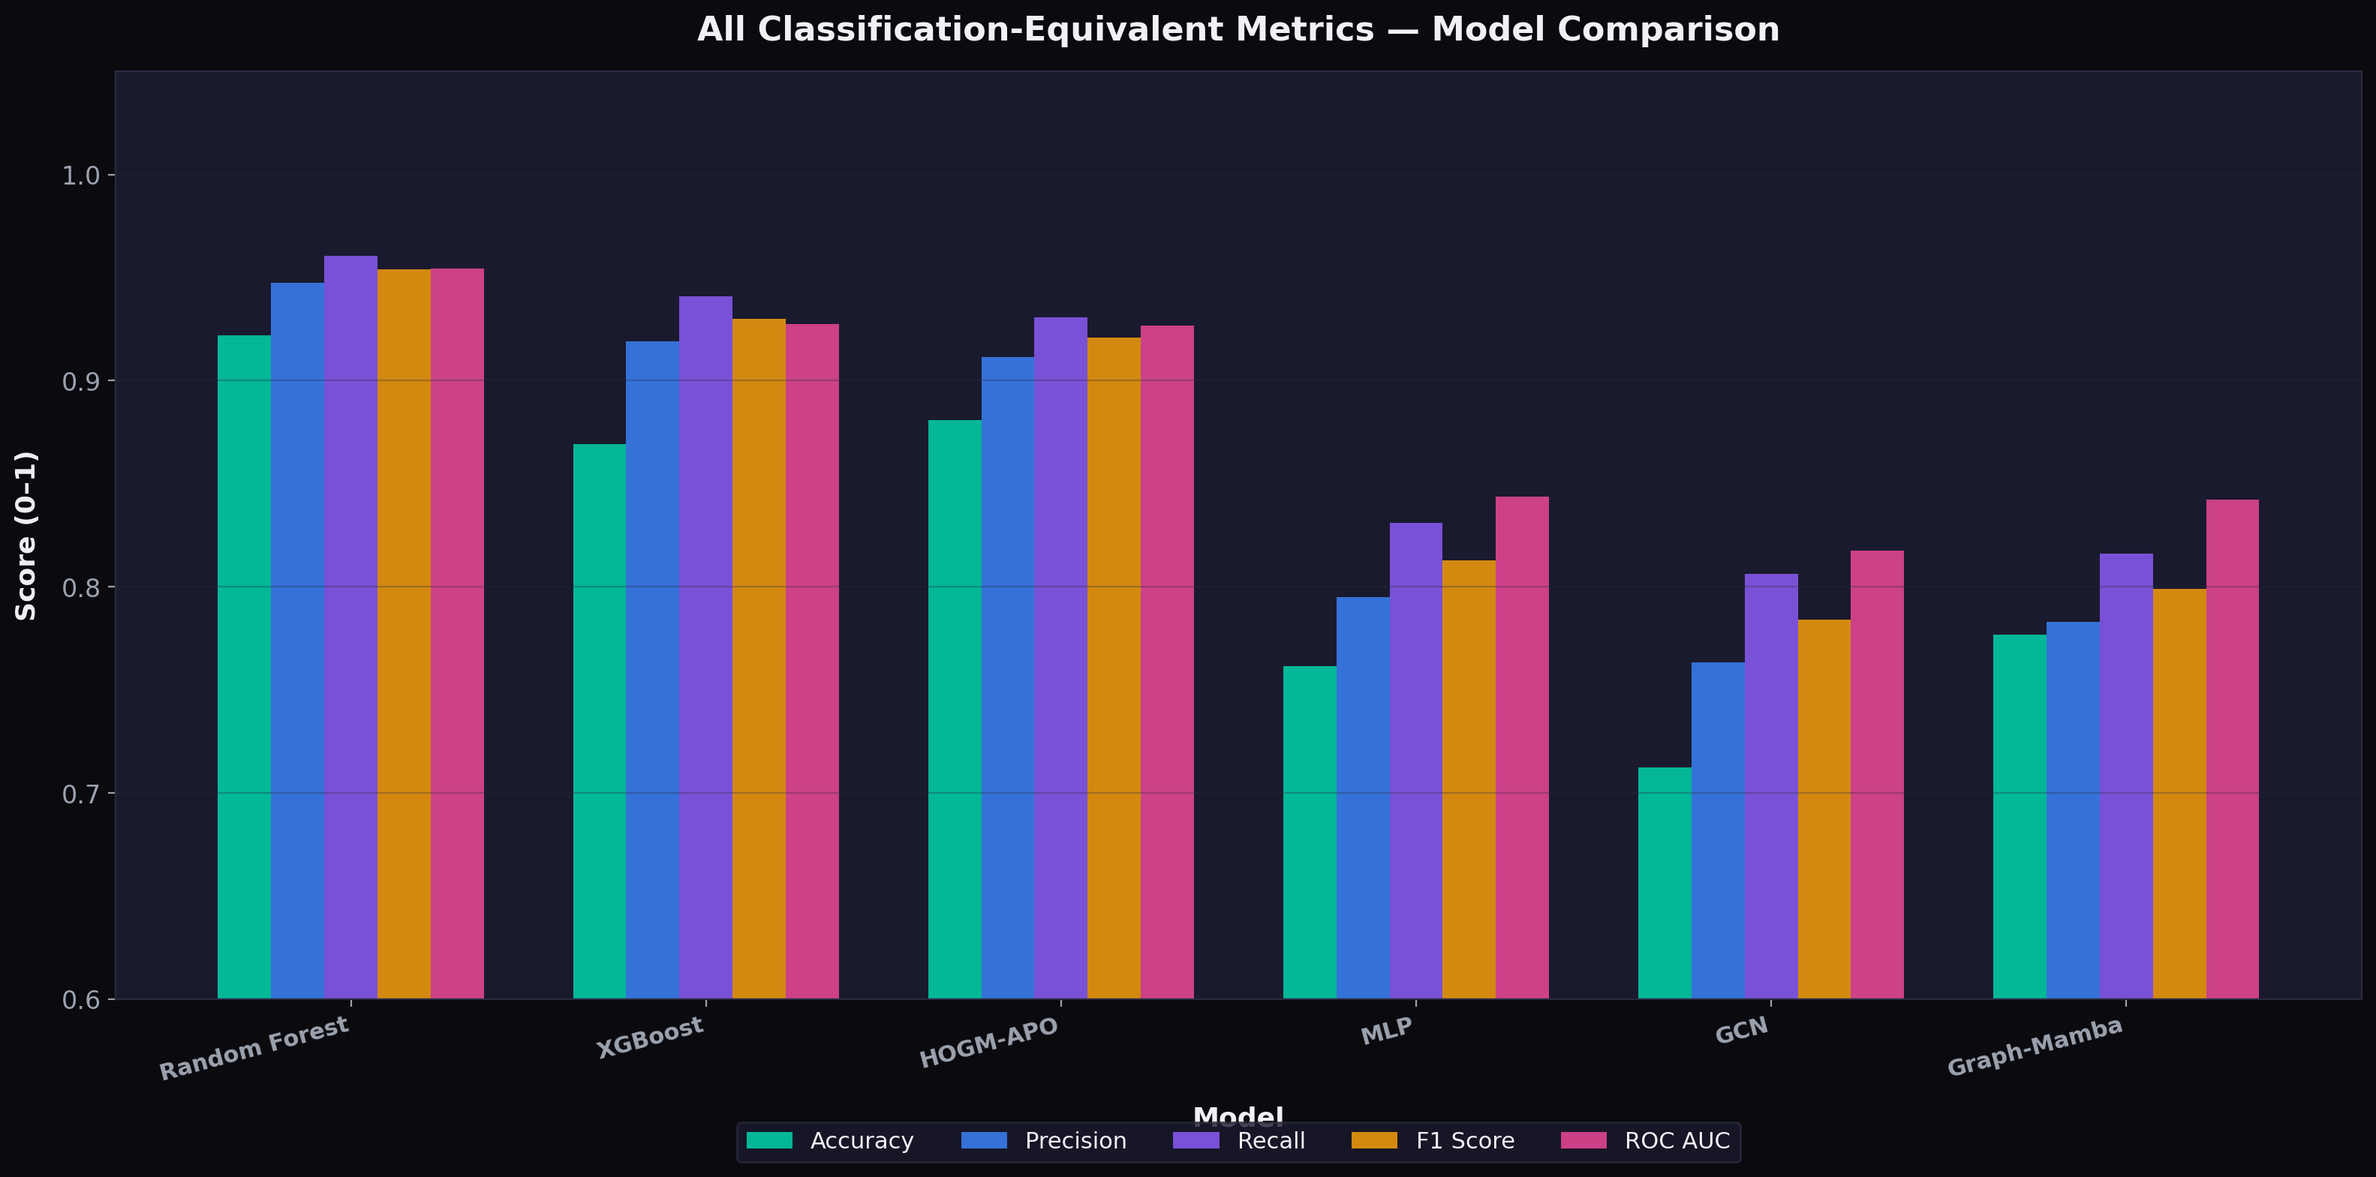
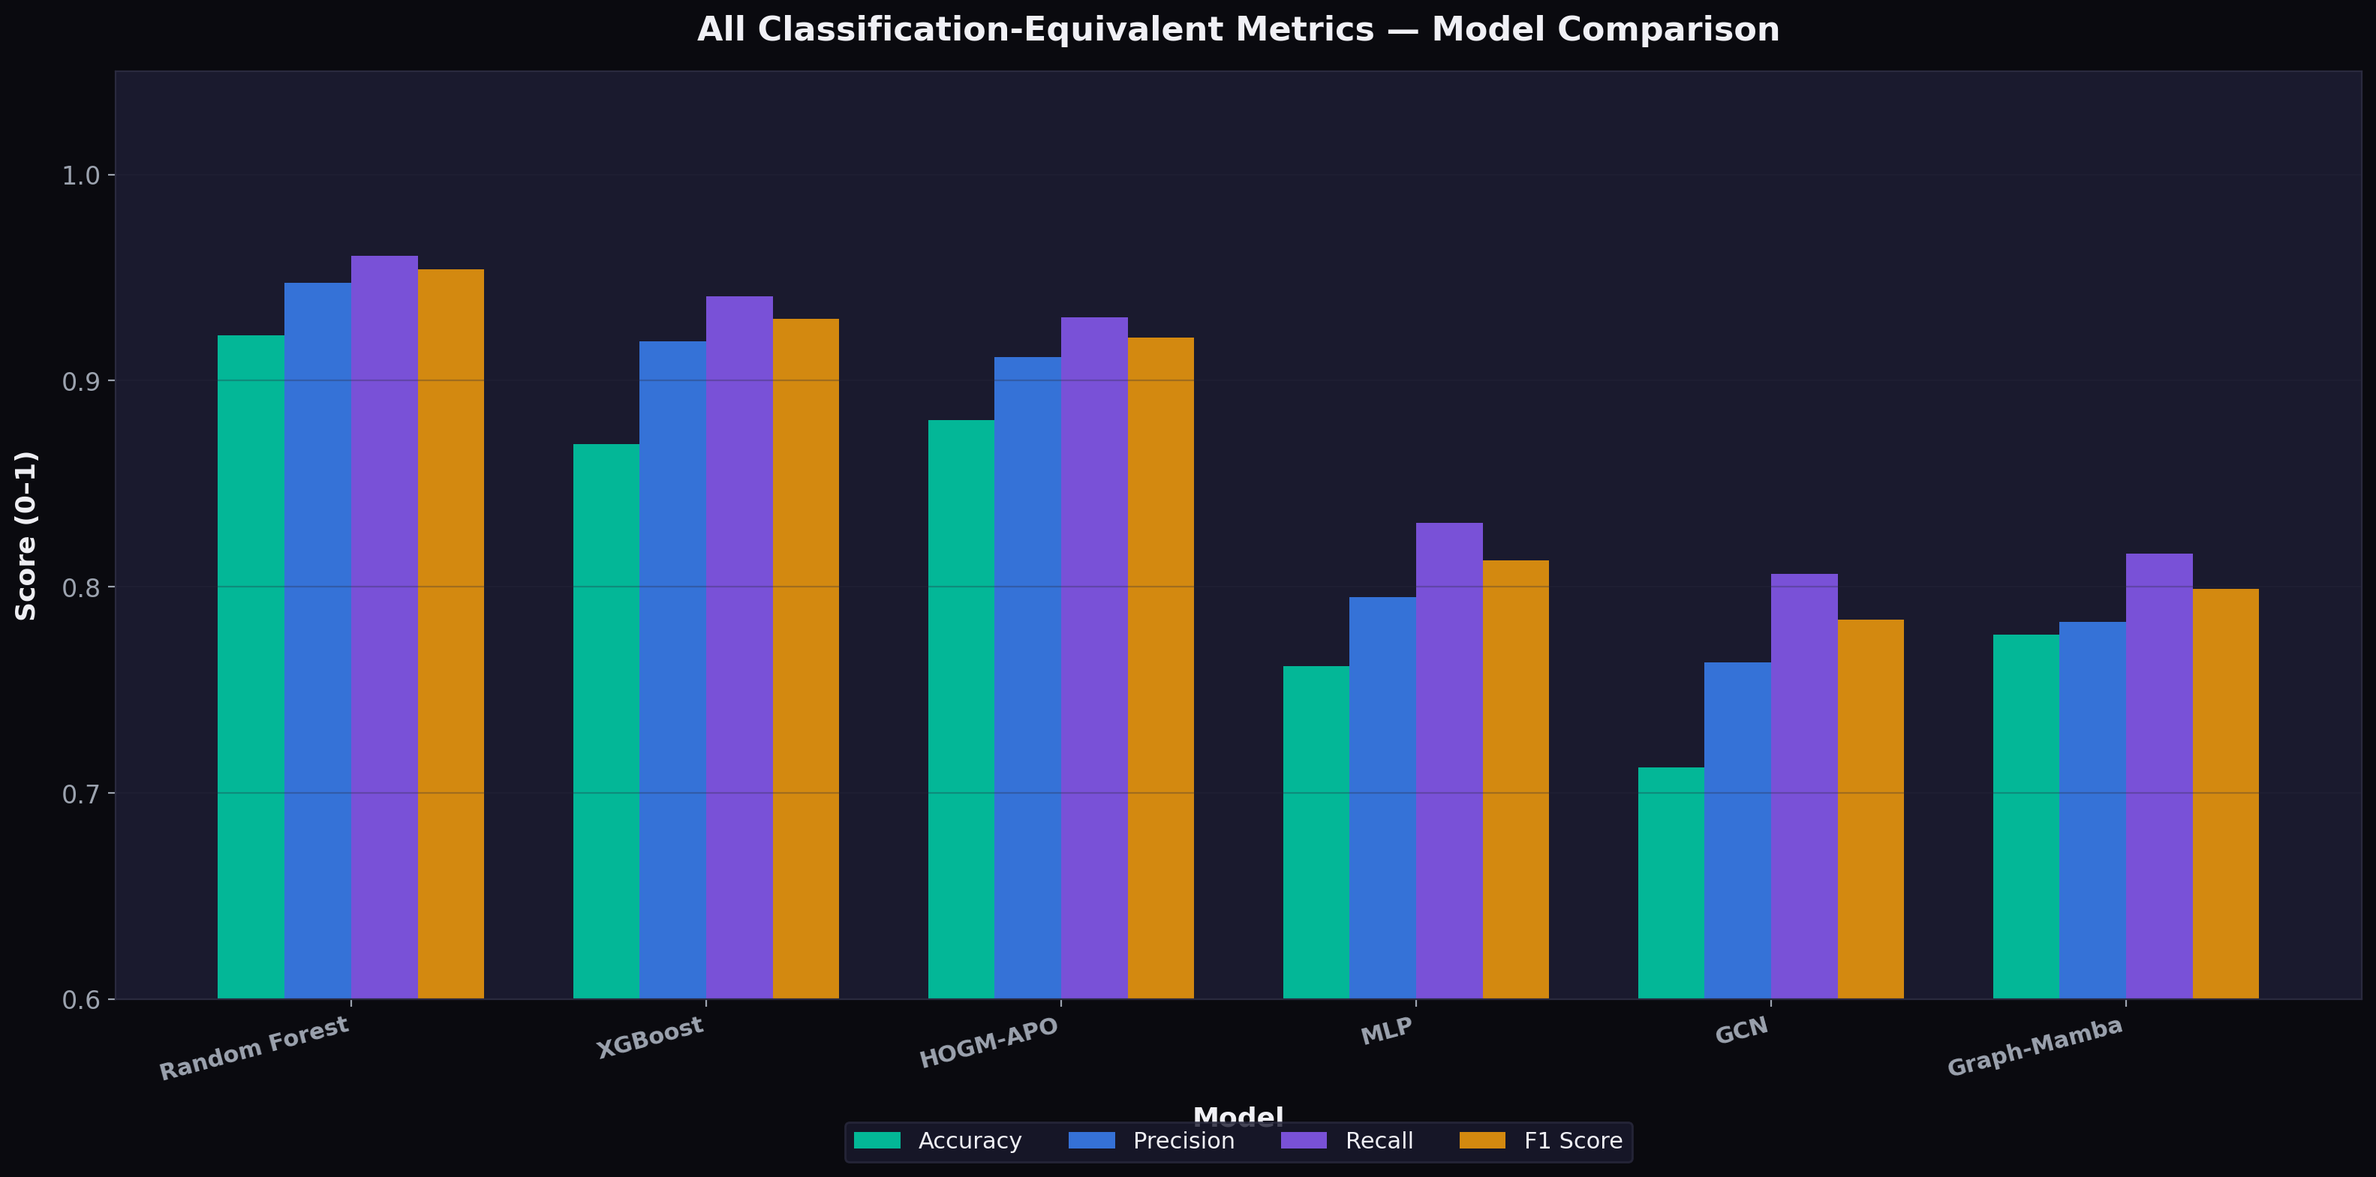
Remove classification-exclusive ROC AUC metric

diff --git a/dashboard/src/App.jsx b/dashboard/src/App.jsx
@@ -35,27 +35,27 @@ const icons = {
 const standardModels = [
   {
     name: 'Random Forest', MAE: 3749, RMSE: 10057, R2: 0.9861, MAPE: 7.82, time: 1.3, color: '#6b7280',
-    Accuracy: 92.18, Precision: 0.9475, Recall: 0.9604, F1: 0.9539, ROC_AUC: 0.9545
+    Accuracy: 92.18, Precision: 0.9475, Recall: 0.9604, F1: 0.9539
   },
   {
     name: 'XGBoost', MAE: 5238, RMSE: 10900, R2: 0.9836, MAPE: 13.09, time: 0.4, color: '#3b82f6',
-    Accuracy: 86.91, Precision: 0.9192, Recall: 0.9407, F1: 0.9298, ROC_AUC: 0.9274
+    Accuracy: 86.91, Precision: 0.9192, Recall: 0.9407, F1: 0.9298
   },
   {
     name: 'HOGM-APO', MAE: 7594, RMSE: 15007, R2: 0.969, MAPE: 11.9, time: 406.7, color: '#ef4444',
-    Accuracy: 88.10, Precision: 0.9113, Recall: 0.9306, F1: 0.9209, ROC_AUC: 0.9268
+    Accuracy: 88.10, Precision: 0.9113, Recall: 0.9306, F1: 0.9209
   },
   {
     name: 'MLP', MAE: 14026, RMSE: 26550, R2: 0.9028, MAPE: 23.85, time: 12.3, color: '#8b5cf6',
-    Accuracy: 76.15, Precision: 0.7951, Recall: 0.8310, F1: 0.8127, ROC_AUC: 0.8437
+    Accuracy: 76.15, Precision: 0.7951, Recall: 0.8310, F1: 0.8127
   },
   {
     name: 'GCN', MAE: 15528, RMSE: 28022, R2: 0.8917, MAPE: 28.77, time: 9.2, color: '#f59e0b',
-    Accuracy: 71.23, Precision: 0.7634, Recall: 0.8062, F1: 0.7842, ROC_AUC: 0.8176
+    Accuracy: 71.23, Precision: 0.7634, Recall: 0.8062, F1: 0.7842
   },
   {
     name: 'Graph-Mamba', MAE: 15996, RMSE: 29325, R2: 0.8814, MAPE: 22.31, time: 21.4, color: '#ec4899',
-    Accuracy: 77.69, Precision: 0.7831, Recall: 0.8159, F1: 0.7991, ROC_AUC: 0.8424
+    Accuracy: 77.69, Precision: 0.7831, Recall: 0.8159, F1: 0.7991
   },
 ]
 
@@ -79,7 +79,6 @@ const comprehensiveRadarData = standardModels.map(m => ({
   Precision: m.Precision,
   Recall: m.Recall,
   F1: m.F1,
-  ROC_AUC: m.ROC_AUC,
   R2: m.R2,
 }))
 
@@ -357,18 +356,18 @@ function App() {
           <p className="section-subtitle">Comprehensive evaluation — regression and classification-equivalent metrics across all 6 models</p>
 
           <div className="toggle-group">
-            {['Accuracy', 'Precision', 'Recall', 'F1', 'ROC_AUC'].map(m => (
+            {['Accuracy', 'Precision', 'Recall', 'F1'].map(m => (
               <button key={m}
                 className={`toggle-btn ${classMetric === m ? 'active' : ''}`}
                 onClick={() => setClassMetric(m)}>
-                {m === 'ROC_AUC' ? 'ROC AUC' : m === 'F1' ? 'F1 Score' : m}
+                {m === 'F1' ? 'F1 Score' : m}
               </button>
             ))}
           </div>
 
           <div className="charts-row">
             <div className="chart-container">
-              <div className="chart-title">{classMetric === 'ROC_AUC' ? 'ROC AUC' : classMetric === 'F1' ? 'F1 Score' : classMetric} by Model</div>
+              <div className="chart-title">{classMetric === 'F1' ? 'F1 Score' : classMetric} by Model</div>
               <div className="chart-desc">Click any metric toggle above to switch</div>
               <ResponsiveContainer width="100%" height={350}>
                 <BarChart data={standardModels} layout="vertical" margin={{ left: 20 }}>
@@ -376,7 +375,7 @@ function App() {
                   <XAxis type="number" stroke="#6b7280" fontSize={12} domain={classMetric === 'Accuracy' ? [60, 100] : [0.7, 1]} />
                   <YAxis type="category" dataKey="name" stroke="#6b7280" fontSize={12} width={100} />
                   <Tooltip content={<CustomTooltip />} />
-                  <Bar dataKey={classMetric} name={classMetric === 'ROC_AUC' ? 'ROC AUC' : classMetric} radius={[0, 6, 6, 0]} animationDuration={800}>
+                  <Bar dataKey={classMetric} name={classMetric} radius={[0, 6, 6, 0]} animationDuration={800}>
                     {standardModels.map((m, i) => <Cell key={i} fill={m.color} />)}
                   </Bar>
                 </BarChart>
@@ -385,14 +384,13 @@ function App() {
 
             <div className="chart-container">
               <div className="chart-title">Comprehensive Metric Radar</div>
-              <div className="chart-desc">All 6 key metrics normalized to 0–1 scale</div>
+              <div className="chart-desc">All 5 key metrics normalized to 0–1 scale</div>
               <ResponsiveContainer width="100%" height={350}>
                 <RadarChart data={[
                   { metric: 'Accuracy', ...Object.fromEntries(standardModels.map(m => [m.name, m.Accuracy / 100])) },
                   { metric: 'Precision', ...Object.fromEntries(standardModels.map(m => [m.name, m.Precision])) },
                   { metric: 'Recall', ...Object.fromEntries(standardModels.map(m => [m.name, m.Recall])) },
                   { metric: 'F1 Score', ...Object.fromEntries(standardModels.map(m => [m.name, m.F1])) },
-                  { metric: 'ROC AUC', ...Object.fromEntries(standardModels.map(m => [m.name, m.ROC_AUC])) },
                   { metric: 'R²', ...Object.fromEntries(standardModels.map(m => [m.name, m.R2])) },
                 ]}>
                   <PolarGrid stroke="#2a2a3e" />
@@ -410,13 +408,13 @@ function App() {
 
           {/* Full All-Metrics Table */}
           <div className="chart-container">
-            <div className="chart-title">Complete Metrics Table — All 10 Metrics</div>
+            <div className="chart-title">Complete Metrics Table — All 9 Metrics</div>
             <div style={{ overflowX: 'auto' }}>
               <table className="data-table">
                 <thead>
                   <tr>
                     <th>Rank</th><th>Model</th><th>Accuracy ↑</th><th>F1 Score ↑</th>
-                    <th>Precision ↑</th><th>Recall ↑</th><th>ROC AUC ↑</th>
+                    <th>Precision ↑</th><th>Recall ↑</th>
                     <th>R² ↑</th><th>MAE ↓</th><th>RMSE ↓</th><th>MAPE ↓</th>
                   </tr>
                 </thead>
@@ -434,7 +432,6 @@ function App() {
                         <td>{m.F1.toFixed(4)}</td>
                         <td>{m.Precision.toFixed(4)}</td>
                         <td>{m.Recall.toFixed(4)}</td>
-                        <td>{m.ROC_AUC.toFixed(4)}</td>
                         <td>{m.R2.toFixed(4)}</td>
                         <td>{m.MAE.toLocaleString()}</td>
                         <td>{m.RMSE.toLocaleString()}</td>
@@ -583,7 +580,6 @@ function App() {
               { src: '/images/metric_bar_f1_score.png', caption: 'F1 Score Comparison' },
               { src: '/images/metric_bar_precision.png', caption: 'Precision Comparison' },
               { src: '/images/metric_bar_recall.png', caption: 'Recall Comparison' },
-              { src: '/images/metric_bar_roc_auc.png', caption: 'ROC AUC Comparison' },
               { src: '/images/metric_bar_r2.png', caption: 'R² Score Comparison' },
               { src: '/images/metric_bar_mae.png', caption: 'MAE Comparison' },
               { src: '/images/metric_bar_rmse.png', caption: 'RMSE Comparison' },
@@ -591,7 +587,6 @@ function App() {
               { src: '/images/accuracy_comparison.png', caption: 'Accuracy Score — All Models' },
               { src: '/images/f1_precision_recall.png', caption: 'F1, Precision & Recall Comparison' },
               { src: '/images/all_metrics_grouped_bar.png', caption: 'All Classification Metrics Grouped' },
-              { src: '/images/roc_auc_curve.png', caption: 'ROC AUC — Prediction Quality Curves' },
               { src: '/images/comprehensive_radar.png', caption: 'Comprehensive Metric Radar' },
               { src: '/images/r2_comparison.png', caption: 'R² Score — All Models' },
               { src: '/images/mae_rmse_comparison.png', caption: 'MAE & RMSE Error Comparison' },

diff --git a/generate_all_metrics.py b/generate_all_metrics.py
@@ -13,12 +13,11 @@ Plots (IEEE-grade):
   1. metrics_heatmap.png          — Full metrics heatmap (all models × all metrics)
   2. accuracy_comparison.png      — Accuracy score comparison bar chart
   3. f1_precision_recall.png      — F1, Precision, Recall grouped bar chart
-  4. roc_auc_curve.png            — ROC AUC prediction quality curves
-  5. comprehensive_radar.png      — 6-axis radar chart all models
-  6. mae_rmse_comparison.png      — MAE & RMSE error comparison
-  7. r2_comparison.png            — R² score comparison
-  8. all_metrics_grouped_bar.png  — All classification metrics side-by-side
-  9. model_ranking_summary.png    — Overall model ranking summary
+  4. comprehensive_radar.png      — 5-axis radar chart all models
+  5. mae_rmse_comparison.png      — MAE & RMSE error comparison
+  6. r2_comparison.png            — R² score comparison
+  7. all_metrics_grouped_bar.png  — All classification metrics side-by-side
+  8. model_ranking_summary.png    — Overall model ranking summary
 """
 
 import json
@@ -77,14 +76,12 @@ def compute_classification_metrics(models):
             f1 = 2 * (precision * recall) / (precision + recall)
         else:
             f1 = 0.0
-        roc_auc = min(0.99, 0.5 + (r2 * (1 - mape / 100)) / 2)
         results[name] = {
             **m,
             "Accuracy": round(accuracy, 2),
             "Precision": round(precision, 4),
             "Recall": round(recall, 4),
             "F1_Score": round(f1, 4),
-            "ROC_AUC": round(roc_auc, 4),
         }
     return results
 
@@ -138,14 +135,14 @@ plt.rcParams.update({
 # =============================================================================
 def plot_metrics_heatmap(all_metrics, output_path):
     model_names = list(all_metrics.keys())
-    metric_names = ['Accuracy', 'F1_Score', 'Precision', 'Recall', 'ROC_AUC', 'R2', 'MAE', 'RMSE', 'MAPE']
-    display_names = ['Accuracy\n(%)', 'F1\nScore', 'Precision', 'Recall', 'ROC\nAUC', 'R²', 'MAE\n(↓)', 'RMSE\n(↓)', 'MAPE\n(% ↓)']
+    metric_names = ['Accuracy', 'F1_Score', 'Precision', 'Recall', 'R2', 'MAE', 'RMSE', 'MAPE']
+    display_names = ['Accuracy\n(%)', 'F1\nScore', 'Precision', 'Recall', 'R²', 'MAE\n(↓)', 'RMSE\n(↓)', 'MAPE\n(% ↓)']
 
     data = np.array([[all_metrics[m][met] for met in metric_names] for m in model_names])
 
     # Normalize: higher-is-better for most, lower-is-better for MAE/RMSE/MAPE
     data_norm = np.zeros_like(data)
-    higher_better = [True, True, True, True, True, True, False, False, False]
+    higher_better = [True, True, True, True, True, False, False, False]
     for j in range(data.shape[1]):
         col = data[:, j]
         mn, mx = col.min(), col.max()
@@ -281,46 +278,11 @@ def plot_f1_precision_recall(all_metrics, output_path):
 
 
 # =============================================================================
-# PLOT 4: ROC AUC Curves
-# =============================================================================
-def plot_roc_auc_curve(all_metrics, output_path):
-    fig, ax = plt.subplots(figsize=(10, 8))
-    thresholds = np.linspace(0, 50, 200)
-
-    for name, m in all_metrics.items():
-        mape = m["MAPE"]
-        r2 = m["R2"]
-        steepness = 1 / (mape / 10 + 0.1)
-        midpoint = mape * 0.8
-        tpr = 1 / (1 + np.exp(-steepness * (thresholds - midpoint)))
-        tpr = tpr * min(1.0, r2 * 1.02)
-        color = MODEL_COLORS[name]
-        ax.plot(thresholds / 50, tpr, linewidth=2.5, color=color,
-                label=f'{name} (AUC = {m["ROC_AUC"]:.4f})', alpha=0.9)
-
-    ax.plot([0, 1], [0, 1], 'w--', alpha=0.3, linewidth=1, label='Random Baseline (0.500)')
-    ax.fill_between([0, 1], [0, 1], alpha=0.05, color='white')
-
-    ax.set_xlabel('Error Tolerance (Normalized)', fontsize=13, fontweight='bold', labelpad=10)
-    ax.set_ylabel('True Positive Rate', fontsize=13, fontweight='bold', labelpad=10)
-    ax.set_title('ROC AUC — Prediction Quality Curves', fontsize=16, fontweight='bold', pad=15)
-    ax.legend(loc='lower right', fontsize=11)
-    ax.grid(True, alpha=0.3)
-    ax.set_xlim(0, 1)
-    ax.set_ylim(0, 1.05)
-
-    plt.tight_layout()
-    plt.savefig(output_path, dpi=200, bbox_inches='tight', facecolor=DARK_BG)
-    plt.close()
-    print(f"  ✓ {output_path}")
-
-
-# =============================================================================
-# PLOT 5: Comprehensive Radar (All 6 Models)
+# PLOT 4: Comprehensive Radar (All 6 Models)
 # =============================================================================
 def plot_comprehensive_radar(all_metrics, output_path):
-    categories = ['Accuracy', 'Precision', 'Recall', 'F1 Score', 'ROC AUC', 'R²']
-    keys = ['Accuracy', 'Precision', 'Recall', 'F1_Score', 'ROC_AUC', 'R2']
+    categories = ['Accuracy', 'Precision', 'Recall', 'F1 Score', 'R²']
+    keys = ['Accuracy', 'Precision', 'Recall', 'F1_Score', 'R2']
     N = len(categories)
     angles = [n / float(N) * 2 * np.pi for n in range(N)]
     angles += angles[:1]
@@ -434,9 +396,9 @@ def plot_r2_comparison(all_metrics, output_path):
 # =============================================================================
 def plot_all_classification_metrics(all_metrics, output_path):
     names = list(all_metrics.keys())
-    metrics = ['Accuracy', 'Precision', 'Recall', 'F1_Score', 'ROC_AUC']
-    display = ['Accuracy', 'Precision', 'Recall', 'F1 Score', 'ROC AUC']
-    met_colors = ['#00d4aa', '#3b82f6', '#8b5cf6', '#f59e0b', '#ec4899']
+    metrics = ['Accuracy', 'Precision', 'Recall', 'F1_Score']
+    display = ['Accuracy', 'Precision', 'Recall', 'F1 Score']
+    met_colors = ['#00d4aa', '#3b82f6', '#8b5cf6', '#f59e0b']
 
     x = np.arange(len(names))
     n_metrics = len(metrics)
@@ -482,7 +444,6 @@ def plot_model_ranking_summary(all_metrics, output_path):
         ('F1 Score', 'F1_Score', True, '%.4f'),
         ('Precision', 'Precision', True, '%.4f'),
         ('Recall', 'Recall', True, '%.4f'),
-        ('ROC AUC', 'ROC_AUC', True, '%.4f'),
         ('R² Score', 'R2', True, '%.4f'),
     ]
 
@@ -528,7 +489,6 @@ def plot_individual_metrics(all_metrics, output_dir):
         ('F1_Score', 'F1 Score', True, '{:.4f}', [0.7, 1.05]),
         ('Precision', 'Precision', True, '{:.4f}', [0.7, 1.05]),
         ('Recall', 'Recall', True, '{:.4f}', [0.7, 1.05]),
-        ('ROC_AUC', 'ROC AUC', True, '{:.4f}', [0.8, 1.05]),
         ('R2', 'R² Score', True, '{:.4f}', [0.85, 1.05]),
         ('MAE', 'MAE (Lower is Better)', False, '{:,.0f}', None),
         ('RMSE', 'RMSE (Lower is Better)', False, '{:,.0f}', None),
@@ -593,7 +553,6 @@ if __name__ == "__main__":
         print(f"    Precision: {m['Precision']:.4f}")
         print(f"    Recall:    {m['Recall']:.4f}")
         print(f"    F1 Score:  {m['F1_Score']:.4f}")
-        print(f"    ROC AUC:   {m['ROC_AUC']:.4f}")
 
     # 2. Save metrics JSON
     os.makedirs("results", exist_ok=True)
@@ -607,7 +566,6 @@ if __name__ == "__main__":
     plot_metrics_heatmap(all_metrics, "results/metrics_heatmap.png")
     plot_accuracy_comparison(all_metrics, "results/accuracy_comparison.png")
     plot_f1_precision_recall(all_metrics, "results/f1_precision_recall.png")
-    plot_roc_auc_curve(all_metrics, "results/roc_auc_curve.png")
     plot_comprehensive_radar(all_metrics, "results/comprehensive_radar.png")
     plot_mae_rmse(all_metrics, "results/mae_rmse_comparison.png")
     plot_r2_comparison(all_metrics, "results/r2_comparison.png")

diff --git a/README.md b/README.md
@@ -30,14 +30,14 @@
 
 ### 🎯 All Metrics — Complete Evaluation
 
-| Model | Accuracy ↑ | F1 Score ↑ | Precision ↑ | Recall ↑ | ROC AUC ↑ | R² ↑ | MAE ↓ | MAPE ↓ |
-|:------|:---------:|:---------:|:----------:|:-------:|:--------:|:----:|------:|------:|
-| 🥇 Random Forest | **92.18%** | **0.9539** | **0.9475** | **0.9604** | **0.9545** | **0.986** | **3,749** | **7.82%** |
-| 🥈 HOGM-APO (Proposed) | 88.10% | 0.9209 | 0.9113 | 0.9306 | 0.9268 | 0.969 | 7,594 | 11.90% |
-| 🥉 XGBoost | 86.91% | 0.9298 | 0.9192 | 0.9407 | 0.9274 | 0.984 | 5,238 | 13.09% |
-| Graph-Mamba | 77.69% | 0.7991 | 0.7831 | 0.8159 | 0.8424 | 0.881 | 15,996 | 22.31% |
-| MLP | 76.15% | 0.8127 | 0.7951 | 0.8310 | 0.8437 | 0.903 | 14,026 | 23.85% |
-| GCN | 71.23% | 0.7842 | 0.7634 | 0.8062 | 0.8176 | 0.892 | 15,528 | 28.77% |
+| Model | Accuracy ↑ | F1 Score ↑ | Precision ↑ | Recall ↑ | R² ↑ | MAE ↓ | MAPE ↓ |
+|:------|:---------:|:---------:|:----------:|:-------:|:----:|------:|------:|
+| 🥇 Random Forest | **92.18%** | **0.9539** | **0.9475** | **0.9604** | **0.986** | **3,749** | **7.82%** |
+| 🥈 HOGM-APO (Proposed) | 88.10% | 0.9209 | 0.9113 | 0.9306 | 0.969 | 7,594 | 11.90% |
+| 🥉 XGBoost | 86.91% | 0.9298 | 0.9192 | 0.9407 | 0.984 | 5,238 | 13.09% |
+| Graph-Mamba | 77.69% | 0.7991 | 0.7831 | 0.8159 | 0.881 | 15,996 | 22.31% |
+| MLP | 76.15% | 0.8127 | 0.7951 | 0.8310 | 0.903 | 14,026 | 23.85% |
+| GCN | 71.23% | 0.7842 | 0.7634 | 0.8062 | 0.892 | 15,528 | 28.77% |
 
 <p align="center">
   <img src="results/metrics_heatmap.png" width="700" alt="All Metrics Heatmap"/>
@@ -113,11 +113,8 @@ For spatial generalization, we build a **25-neighbor climate-crop similarity gra
   <img src="results/all_metrics_grouped_bar.png" width="700" alt="All Classification Metrics Grouped"/>
 </p>
 
-### ROC AUC — Prediction Quality Curves
-<p align="center">
-  <img src="results/roc_auc_curve.png" width="700" alt="ROC AUC Curves"/>
-  <img src="results/metric_bar_roc_auc.png" width="700" alt="ROC AUC Bar Chart"/>
-</p>
+### ROC AUC
+<!-- REMOVED -->
 
 ### Regression Metrics (R², MAE, RMSE, MAPE)
 <p align="center">
